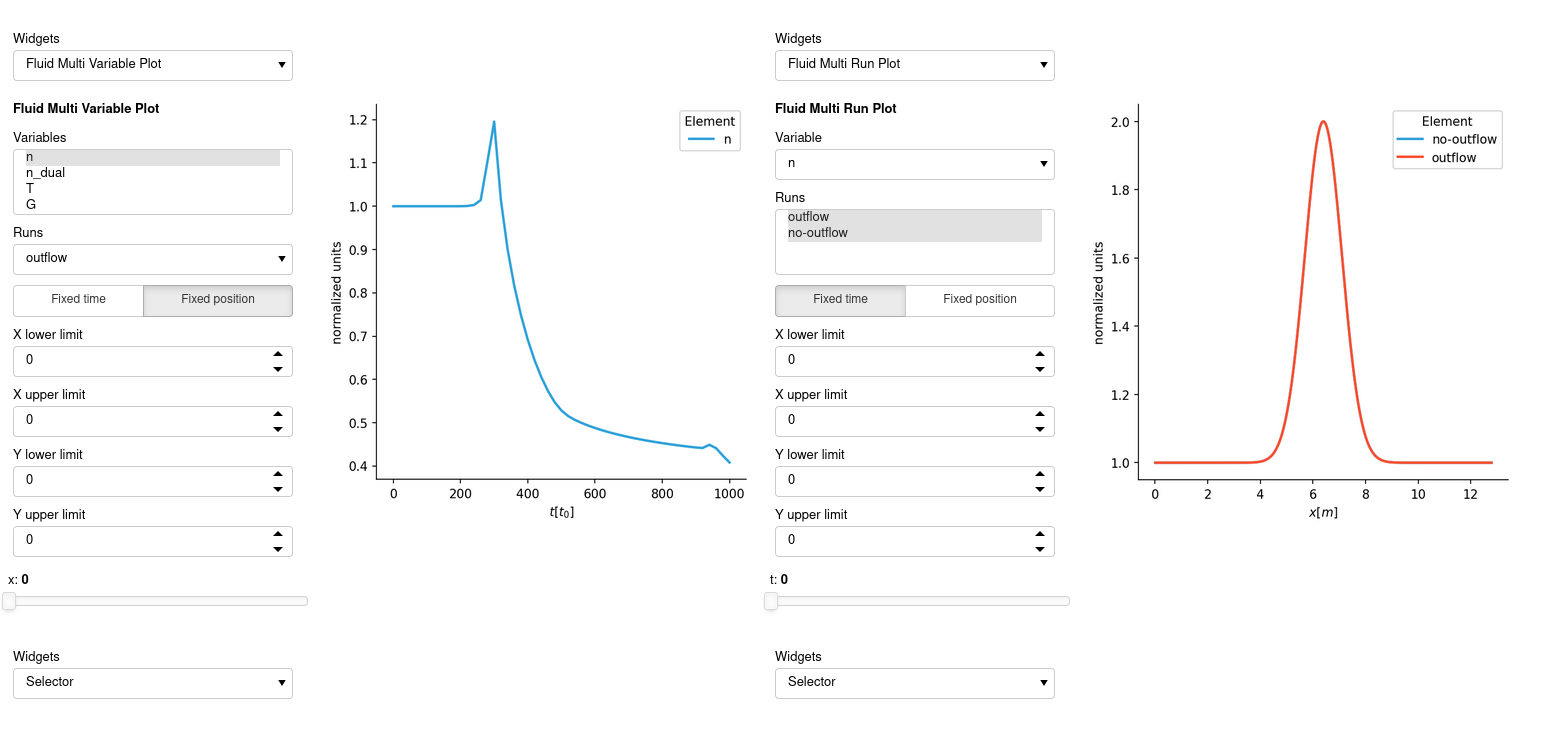
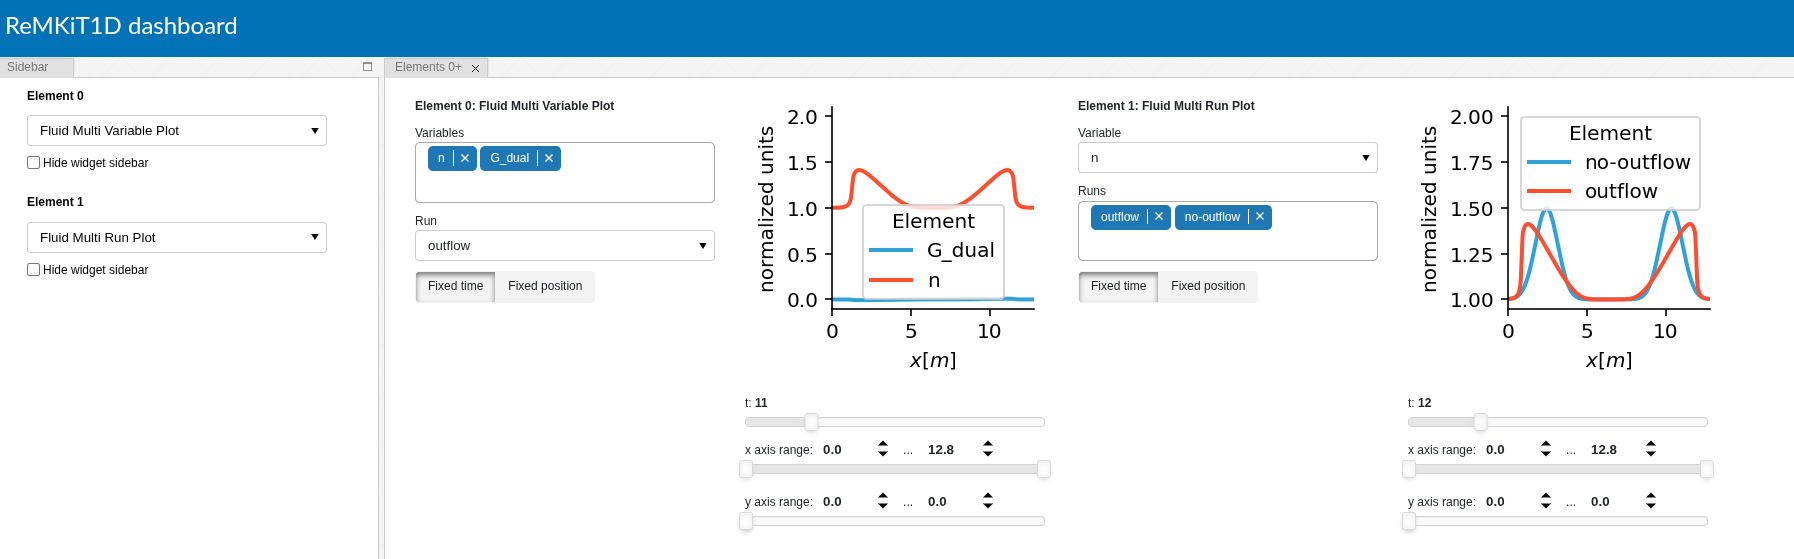
Preparing for v2.0.0 release

diff --git a/RMK_support/model_construction.py b/RMK_support/model_construction.py
@@ -266,19 +266,17 @@ class TermCollection:
                 )
 
     def __add__(self, rhs: Union[Term, Self]) -> Self:
-        assert isinstance(rhs, (Term, TermCollection)), (
-            "cannot add non-Terms to term collection"
-        )
+        assert isinstance(
+            rhs, (Term, TermCollection)
+        ), "cannot add non-Terms to term collection"
         if isinstance(rhs, Term):
-            assert rhs.name not in self.termNames, (
-                "duplicate term name in TermCollection - use Term.rename()"
-            )
+            assert (
+                rhs.name not in self.termNames
+            ), "duplicate term name in TermCollection - use Term.rename()"
             assert (
                 rhs.evolvedVar is None
                 or rhs.evolvedVar.name == self.__evolvedVar__.name
-            ), (
-                "Cannot add Term to TermCollection if it evolves a variable different from the collection"
-            )
+            ), "Cannot add Term to TermCollection if it evolves a variable different from the collection"
             newCollection = deepcopy(self)
             newCollection.__terms__.append(deepcopy(rhs))
             newCollection.__terms__[-1].evolvedVar = self.__evolvedVar__
@@ -291,19 +289,17 @@ class TermCollection:
         return newCollection
 
     def __sub__(self, rhs: Union[Term, Self]):
-        assert isinstance(rhs, (Term, TermCollection)), (
-            "cannot add (negative) non-Terms to term collection"
-        )
+        assert isinstance(
+            rhs, (Term, TermCollection)
+        ), "cannot add (negative) non-Terms to term collection"
         if isinstance(rhs, Term):
-            assert rhs.name not in self.termNames, (
-                "duplicate term name in TermCollection - use Term.rename()"
-            )
+            assert (
+                rhs.name not in self.termNames
+            ), "duplicate term name in TermCollection - use Term.rename()"
             assert (
                 rhs.evolvedVar is None
                 or rhs.evolvedVar.name == self.__evolvedVar__.name
-            ), (
-                "Cannot add (negative) Term to TermCollection if it evolves a variable different from the collection"
-            )
+            ), "Cannot add (negative) Term to TermCollection if it evolves a variable different from the collection"
             newCollection = deepcopy(self)
             newCollection.__terms__.append(deepcopy(-1 * rhs))
             newCollection.__terms__[-1].evolvedVar = self.__evolvedVar__
@@ -649,9 +645,9 @@ class MatrixTerm(Term):
 
         self.__profiles__: Dict[str, Profile] = profiles if profiles is not None else {}
 
-        assert all(k in ["X", "H", "V"] for k in self.__profiles__.keys()), (
-            "Profiles in MatrixTerm constructor must have keys X,H, or V"
-        )
+        assert all(
+            k in ["X", "H", "V"] for k in self.__profiles__.keys()
+        ), "Profiles in MatrixTerm constructor must have keys X,H, or V"
 
         self.__R__ = R if R is not None else MultiplicativeArgument()
         self.__C__ = C if C is not None else MultiplicativeArgument()
@@ -793,12 +789,12 @@ class MatrixTerm(Term):
         )
 
     def dict(self):
-        assert self.evolvedVar is not None, (
-            "Called dict() on MatrixTerm without setting evolved variable"
-        )
-        assert self.__implicitVar__ is not None, (
-            "Called dict() on MatrixTerm without setting implicit variable"
-        )
+        assert (
+            self.evolvedVar is not None
+        ), "Called dict() on MatrixTerm without setting evolved variable"
+        assert (
+            self.__implicitVar__ is not None
+        ), "Called dict() on MatrixTerm without setting implicit variable"
 
         gTerm = {
             "termType": "matrixTerm",
@@ -875,9 +871,9 @@ class MatrixTerm(Term):
                     latexName=lhs.latex() + newMat.__profiles__[lhs.dim].latex(),
                 )
         if isinstance(lhs, TimeSignalData):
-            assert self.__T__ is None, (
-                "Cannot multiply MatrixTerm that already has explicit time dependece by a TimeSignal"
-            )
+            assert (
+                self.__T__ is None
+            ), "Cannot multiply MatrixTerm that already has explicit time dependece by a TimeSignal"
             newMat = deepcopy(self)
             newMat.__T__ = lhs
         if isinstance(lhs, (Variable, MultiplicativeArgument)):
@@ -927,24 +923,24 @@ class Stencil(AbstractStencil):
         """
         super().__init__()
         if latexTemplate is not None:
-            assert "$0" in latexTemplate, (
-                "Stencil latexTemplate argument must be specified"
-            )
+            assert (
+                "$0" in latexTemplate
+            ), "Stencil latexTemplate argument must be specified"
         self.__latexTemplate__ = latexTemplate
         self.__properties__ = properties
 
     def dict(self) -> dict:
-        assert self.__properties__ is not None, (
-            "Stencil default dict properties not provided"
-        )
+        assert (
+            self.__properties__ is not None
+        ), "Stencil default dict properties not provided"
         return self.__properties__
 
     def __call__(
         self, *args: Union[MultiplicativeArgument, Variable], **kwargs
     ) -> MatrixTerm:
-        assert len(args) == 1 or len(args) == 2, (
-            "Stencil __call__ must have 1 or 2 args"
-        )
+        assert (
+            len(args) == 1 or len(args) == 2
+        ), "Stencil __call__ must have 1 or 2 args"
         C = (
             args[0]
             if isinstance(args[0], MultiplicativeArgument)
@@ -959,14 +955,14 @@ class Stencil(AbstractStencil):
                 else MultiplicativeArgument((args[1], 1.0))
             )
         )
-        assert len(C.args) > 0, (
-            "First arg in Stencil call must have at least one variable"
-        )
+        assert (
+            len(C.args) > 0
+        ), "First arg in Stencil call must have at least one variable"
         for arg in args:
             if isinstance(arg, MultiplicativeArgument):
-                assert arg.scalar == 1, (
-                    "Stencils must act on MultiplicativeArguments without a non-trivial scalar component"
-                )
+                assert (
+                    arg.scalar == 1
+                ), "Stencils must act on MultiplicativeArguments without a non-trivial scalar component"
         return MatrixTerm(
             "unnamed_term",
             self,
@@ -976,9 +972,9 @@ class Stencil(AbstractStencil):
         )
 
     def latex(self, arg: MultiplicativeArgument, **kwargs):
-        assert self.__latexTemplate__ is not None, (
-            "latex() on Stencil called without a default latexTemplate set"
-        )
+        assert (
+            self.__latexTemplate__ is not None
+        ), "latex() on Stencil called without a default latexTemplate set"
         latexRemap: Dict[str, str] = kwargs.get("latexRemap", {})
         return self.__latexTemplate__.replace("$0", arg.latex(latexRemap))
 
@@ -1373,9 +1369,9 @@ class Model:
         return cast(Self, newModel)
 
     def addTerm(self, termTag: str, term: Term):
-        assert term.evolvedVar is not None, (
-            "Cannot add Term without evolved variable directly"
-        )
+        assert (
+            term.evolvedVar is not None
+        ), "Cannot add Term without evolved variable directly"
 
         self.ddt[term.evolvedVar] += term.rename(termTag)
 
@@ -1480,9 +1476,9 @@ class ModelCollection:
 
     def add(self, *args: Model):
         for arg in args:
-            assert arg.name not in self.modelNames, (
-                "Attempted to add duplicate model to ModelCollection - use key access if you wish to overwrite an existing model"
-            )
+            assert (
+                arg.name not in self.modelNames
+            ), "Attempted to add duplicate model to ModelCollection - use key access if you wish to overwrite an existing model"
 
         self.__models__ += list(args)
 
@@ -1696,29 +1692,29 @@ class LBCModelboundData(ModelboundData):
         assert ionCurrent.isScalar, "ionCurrent in LBCModelboundData must be a scalar"
         self.__ionCurrent__ = ionCurrent
 
-        assert distFun.isDistribution, (
-            "distFun in LBCModelboundData must be a distribution"
-        )
+        assert (
+            distFun.isDistribution
+        ), "distFun in LBCModelboundData must be a distribution"
 
         assert density.isFluid, "density must be a fluid variable in LBCModelboundData"
 
         if densityDual is not None:
-            assert densityDual.isOnDualGrid, (
-                "densityDual must be on the dual grid in LBCModelboundData"
-            )
-            assert densityDual.isFluid, (
-                "densityDual must be a fluid variable in LBCModelboundData"
-            )
+            assert (
+                densityDual.isOnDualGrid
+            ), "densityDual must be on the dual grid in LBCModelboundData"
+            assert (
+                densityDual.isFluid
+            ), "densityDual must be a fluid variable in LBCModelboundData"
 
         if densityOnBoundary is not None:
-            assert densityOnBoundary.isScalar, (
-                "densityOnBoundary must be a scalar variable in LBCModelboundData"
-            )
+            assert (
+                densityOnBoundary.isScalar
+            ), "densityOnBoundary must be a scalar variable in LBCModelboundData"
 
         if totalCurrent is not None:
-            assert totalCurrent.isScalar, (
-                "totalCurrent must be a scalar variable in LBCModelboundData"
-            )
+            assert (
+                totalCurrent.isScalar
+            ), "totalCurrent must be a scalar variable in LBCModelboundData"
         self.__totalCurrent__ = totalCurrent
 
         self.__bisTol__ = bisTol

diff --git a/RMK_support/common_variables.py b/RMK_support/common_variables.py
@@ -48,7 +48,7 @@ def timeDerivative(
         isScalar=variable.isScalar,
         isDistribution=variable.isDistribution,
         isSingleHarmonics=variable.isSingleHarmonic,
-        subtype=variable.subtype + "_time_derivative"
+        subtype=variable.subtype + "_time_derivative",
     )
 
     return var
@@ -79,7 +79,7 @@ def density(name: str, context: RMKContext, **kwargs) -> Variable:
         **kwargs,
         units="norm. density",
         unitSI="$m^{-3}$",
-        normSI=context.normDensity
+        normSI=context.normDensity,
     )
 
     return var
@@ -107,7 +107,7 @@ def temperature(name: str, context: RMKContext, **kwargs) -> Variable:
         **kwargs,
         units="norm. temperature",
         unitSI="eV",
-        normSI=context.normTemperature
+        normSI=context.normTemperature,
     )
 
     return var
@@ -135,7 +135,7 @@ def flux(name: str, context: RMKContext, **kwargs) -> Variable:
         **kwargs,
         units="norm. flux",
         unitSI="$m^{-2}s{-1}$",
-        normSI=context.normDensity * context.norms["speed"]
+        normSI=context.normDensity * context.norms["speed"],
     )
 
     return var
@@ -164,7 +164,7 @@ def speed(name: str, context: RMKContext, **kwargs) -> Variable:
         **kwargs,
         units="norm. speed",
         unitSI="$ms^{-1}$",
-        normSI=context.norms["speed"]
+        normSI=context.norms["speed"],
     )
 
     return var
@@ -193,7 +193,7 @@ def energyDensity(name: str, context: RMKContext, **kwargs) -> Variable:
         **kwargs,
         units="norm. en. density",
         unitSI="$eV m^{-3}$",
-        normSI=context.normDensity * context.normTemperature
+        normSI=context.normDensity * context.normTemperature,
     )
 
     return var
@@ -222,7 +222,7 @@ def energyFlux(name: str, context: RMKContext, **kwargs) -> Variable:
         **kwargs,
         units="norm. en. flux",
         unitSI="$eV m^{-2} s^{-1}$",
-        normSI=context.norms["heatFlux"]
+        normSI=context.norms["heatFlux"],
     )
 
     return var
@@ -251,7 +251,7 @@ def electricField(name: str, context: RMKContext, **kwargs) -> Variable:
         **kwargs,
         units="norm. el. field",
         unitSI="$Vm{-1}$",
-        normSI=context.norms["EField"]
+        normSI=context.norms["EField"],
     )
 
     return var

diff --git a/RMK_support/crm_support.py b/RMK_support/crm_support.py
@@ -376,7 +376,7 @@ class DerivedTransition(Transition):
         inStates: List[Species],
         outStates: List[Species],
         rateDeriv: DerivationClosure,
-        **kwargs
+        **kwargs,
     ):
         """Transition where rates are calculated using transition objects
 
@@ -687,7 +687,7 @@ class DetailedBalanceTransition(Transition):
         electronDistribution: Variable,
         degeneracyRatio: float,
         maxResolvedCSHarmonic: int,
-        **kwargs
+        **kwargs,
     ):
         """Detailed balance transition corresponding to a direct fixed energy/cross-section electron-impact transition
 

diff --git a/RMK_support/common_models.py b/RMK_support/common_models.py
@@ -289,7 +289,7 @@ def implicitTemperatures(
     species: List[Species],
     norms: Dict[str, float],
     speciesFluxes: Optional[List[Variable]] = None,
-    **kwargs
+    **kwargs,
 ) -> mc.Model:
     """Generate implicit temperature derivation matrix terms for each species: d*n_b*k*T_b/2 + m_b*n_b*u_b**2/2 = W_b, where d is the number of degrees of freedom. Temperatures here are assumed to be stationary and implicit variables. The kinetic energy contribution uses interpolation, so should be used with care in regions of poorly resolved flow gradients. Assumes default normalization.
 

diff --git a/RMK_support/integrators.py b/RMK_support/integrators.py
@@ -178,7 +178,7 @@ class IntegrationStepSequence:
         doc: tex.Document,
         implicitGroups: int,
         models: mc.ModelCollection,
-        **kwargs
+        **kwargs,
     ):
         doc.append(
             tex.NoEscape(
@@ -582,7 +582,7 @@ class IntegrationScheme:
         doc: tex.Document,
         implicitGroups: int,
         models: mc.ModelCollection,
-        **kwargs
+        **kwargs,
     ):
         with doc.create(tex.Section("Integration scheme")):
             doc.append(tex.NoEscape("$dt =" + self.timestep.latex(**kwargs) + " $ "))

diff --git a/setup.py b/setup.py
@@ -2,7 +2,7 @@ from setuptools import setup, find_packages  # type: ignore
 
 setup(
     name="RMK_support",
-    version="2.0.0-beta.2",
+    version="2.0.0",
     packages=["RMK_support"],
     install_requires=[
         "numpy",
@@ -12,7 +12,7 @@ setup(
         "matplotlib",
         "h5py",
         "scipy",
-        "pylatex"
+        "pylatex",
     ],
     author="UK Atomic Energy Authority",
     maintainer="Stefan Mijin",

diff --git a/README.md b/README.md
@@ -181,6 +181,18 @@ The secondary feature of RMK_support modules is data analysis and visualization,
 
 From v2.0.0 a new dynamic, composable, and extensible dashboard is available through `ElementDisplay` objects, which can be composed into a [panel](https://panel.holoviz.org/) app.
 
+For example, running the below cell in the [advection with outflow](https://github.com/ukaea/ReMKiT1D-Python/blob/master/examples/gaussian_advection_outflow.ipynb) after running the [advection](https://github.com/ukaea/ReMKiT1D-Python/blob/master/examples/ReMKiT1D_advection_test.ipynb) example will serve the pre-built dashboard (NOTE: some issues encountered with newer versions of Firefox, try serving in another browser if the dashboard is not rendering).
+
+```python
+from RMK_support.dashboard_support import dashboard
+
+runPaths={"outflow":rk.IOContext.HDF5Dir,"no-outflow":"./RMKOutput/RMK_advection_test/"}
+plt.rcParams['figure.dpi'] = 150
+hv.output(size=50,dpi=150)
+dashboard(rk,runPaths=runPaths,elementsPerTab=2).servable().show()
+```
+
+
 ![](docs/dashboard_example.png "ReMKiT1D v2.0.0 dashboard")
 
 ## Documentation, examples and tutorials

diff --git a/CHANGELOG.md b/CHANGELOG.md
@@ -1,5 +1,5 @@
 # CHANGELOG
-## v2.0.0-beta.2, 2025-07-09
+## v2.0.0, 2025-08-29
 
 - See beta.1 notes
 - Support for v1.3 BDE integrator rewrite 
